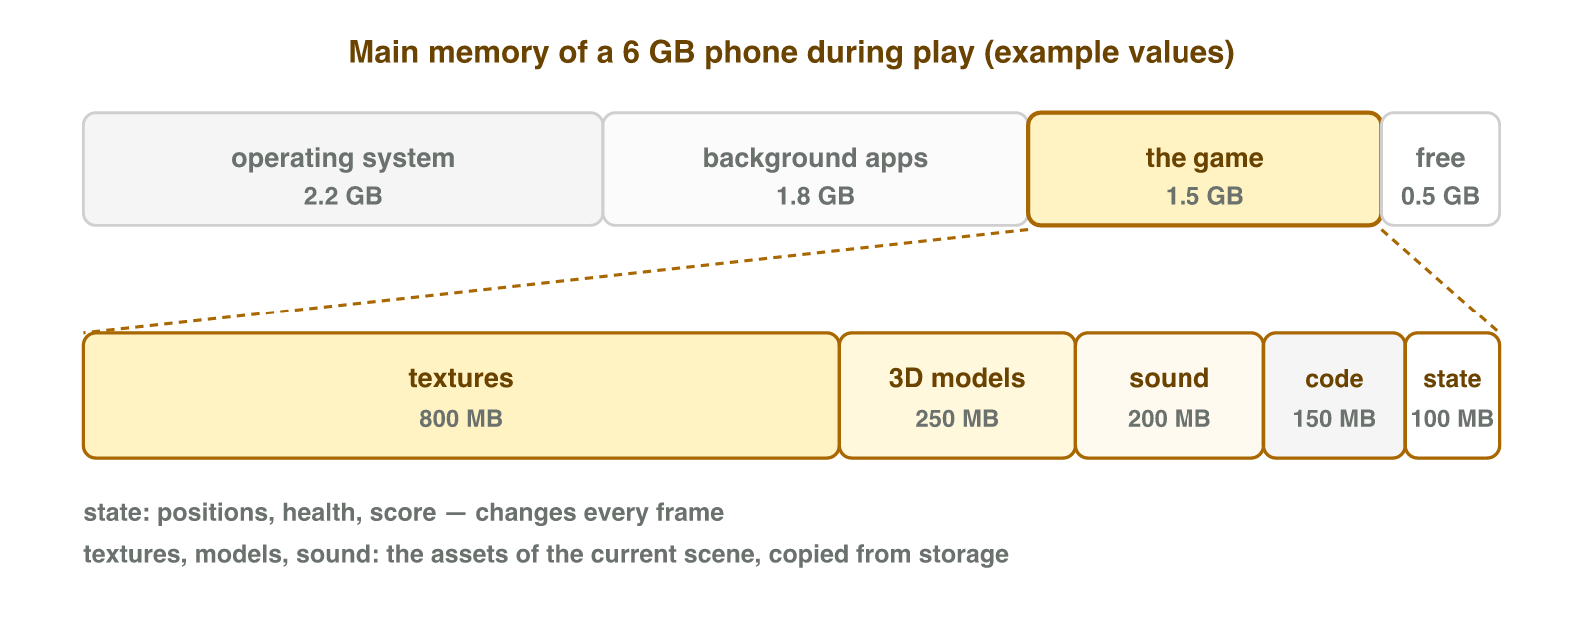
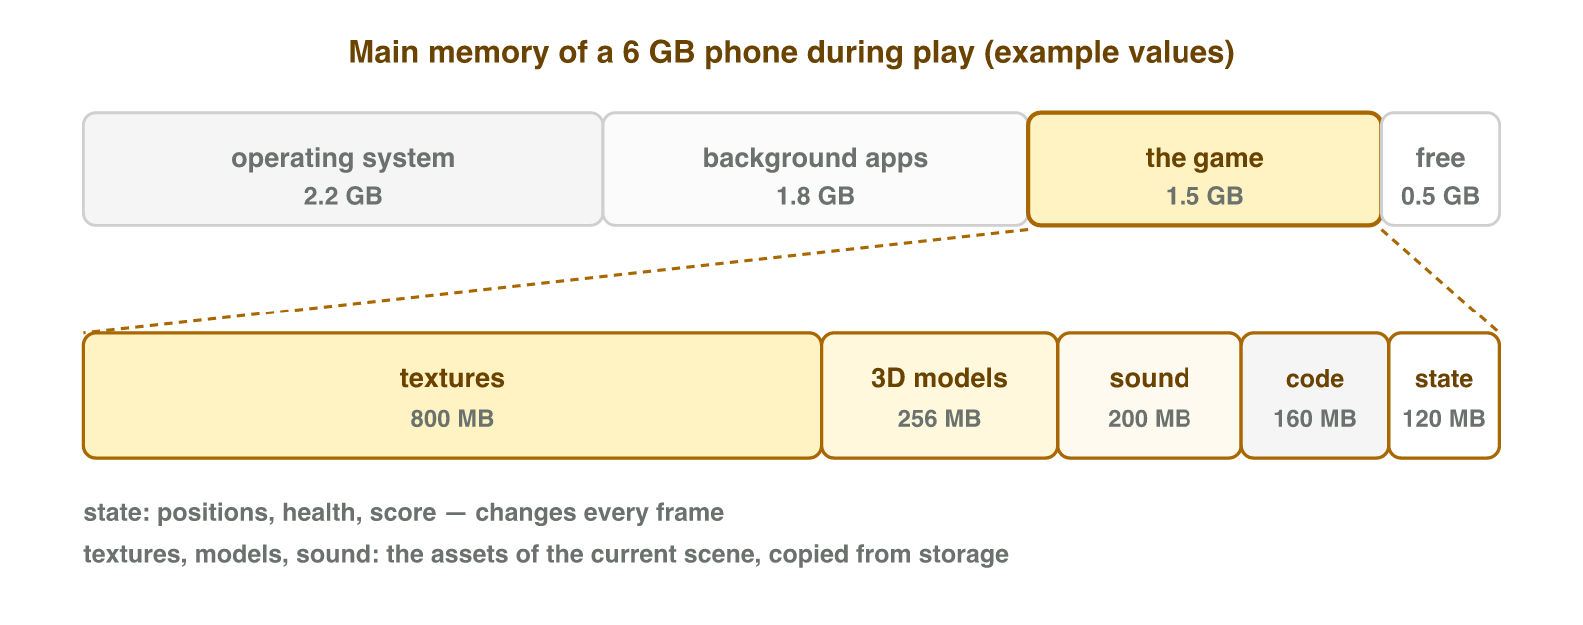
Count sizes in 1024 in Computing Systems lesson 3
Lesson 3 now uses the same rule as Digital Skills: 1 KB = 1024 bytes,
1 MB = 1024 KB, 1 GB = 1024 MB and 1 TB = 1024 GB. The texture example
is now exact (1024 x 1024 bytes = 1 MB, so 4 MB and 1 MB), a Try it asks
2 GB = 2048 MB, and the "1 TB shows 931 GB" point explains that drive
makers count in 1000s and Windows in 1024s. The game's parts in the
memory figure now add up to 1.5 GB in 1024s, and the glossary entry
"byte" uses 1024.

diff --git a/courses/computing-systems/NOTES.md b/courses/computing-systems/NOTES.md
@@ -15,6 +15,10 @@ Course-specific rules only. Global rules are in the root `AUTHORING.md`.
 - Numbers about hardware and markets change quickly: give orders of
   magnitude ("about half of game revenue", "100 MB/s to over 1 GB/s") and
   check them each semester.
+- File and memory sizes count in steps of **1024**, as Windows does and as
+  Digital Skills does: 1 KB = 1024 bytes, 1 MB = 1024 KB, 1 GB = 1024 MB,
+  1 TB = 1024 GB. Drive makers count in 1000s, so a "1 TB" drive shows about
+  931 GB in Windows.
 
 ## Lessons learned
 
@@ -35,3 +39,7 @@ Course-specific rules only. Global rules are in the root `AUTHORING.md`.
   frame-rate, pixel and input-lag calculations, the ISA and compiler section
   and bandwidth were removed; one sentence on builds per platform (ARM, x86)
   stays.
+- Week 2 (2026-10-20, teacher review): lesson 3 now counts sizes in 1024
+  instead of 1000, like Digital Skills, so students of both courses learn one
+  rule. 1024 × 1024 bytes = 1 MB makes the texture example exact (4 MB);
+  the Try it asks 2 GB = 2048 MB.
